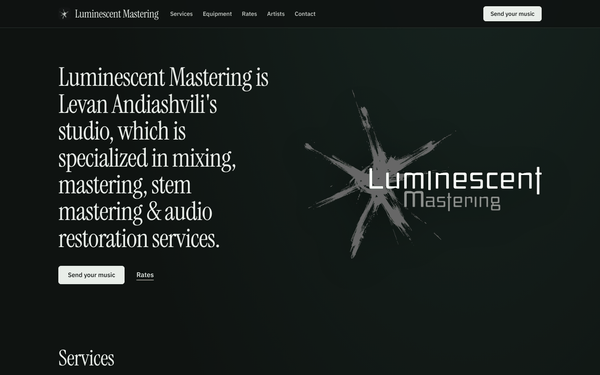
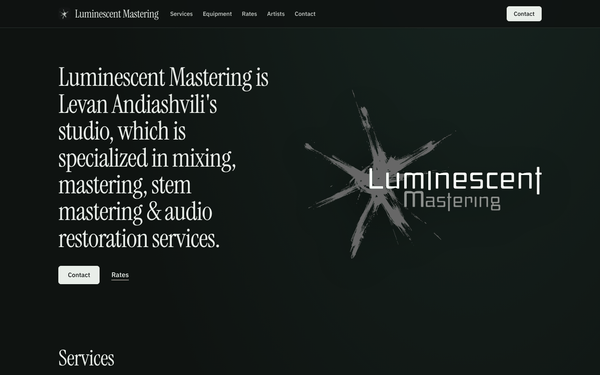
Top button: Contact instead of Send your music
The button at the top of both designs now reads Contact and jumps to
the Contact section. In the admin, the button's label and where it goes
(any section) can be changed, and Send your music can get its own knob
or menu link (empty by default). On phones the rack's knob row now fits
however many knobs there are.

Claude-Session: https://claude.ai/code/session_01J596TSWrTbDpVZM8kLWECq

Changed region(s): [[0.12, 0.704, 0.27, 0.7627], [0.78, 0.0, 0.9, 0.0587]]

diff --git a/src/admin.js b/src/admin.js
@@ -1,7 +1,7 @@
 // The admin panel at /admin: sign in, edit every text on the page, pick the design, go back to an earlier version.
 import crypto from 'node:crypto';
 import { html, raw, esc, send, redirect, readForm, clientIp, sameOrigin, SECURITY_HEADERS } from './http.js';
-import { load, save, normalize, history, restore, DESIGNS } from './content.js';
+import { load, save, normalize, history, restore, DESIGNS, SECTIONS } from './content.js';
 import {
   configured, checkPassword, makeSession, session, sessionCookie, csrfToken, csrfOk,
   tooManyAttempts, noteFailure, clearFailures,
@@ -133,8 +133,9 @@ ${flash.map((f) => html`<p class="flash ${f.kind || ''}" role="status">${f.text}
 <fieldset>
   <legend>Top of the page</legend>
   ${field('Intro', 'intro', c.intro, { rows: 3, hint: 'next to the logo; a blank line starts a new paragraph' })}
-  <div class="f-row">
-    ${field('Button', 'cta', c.cta, { hint: 'jumps to the Send your music section' })}
+  <div class="f-row f-row-3">
+    ${field('Button', 'cta', c.cta, { hint: 'the button at the top; leave empty to hide it' })}
+    <label class="f"><span>Button goes to</span><select name="ctaTarget">${Object.entries(SECTIONS).map(([k, label]) => html`<option value="${k}" ${c.ctaTarget === k ? raw('selected') : ''}>${label}</option>`)}</select></label>
     ${field('Site name', 'seo.title', c.seo.title, { hint: 'browser tab and Google' })}
   </div>
   ${field('Google description', 'seo.description', c.seo.description, { rows: 2, hint: 'the short text under the link in Google results' })}
@@ -178,7 +179,10 @@ ${flash.map((f) => html`<p class="flash ${f.kind || ''}" role="status">${f.text}
 
 <fieldset>
   <legend>Send your music</legend>
-  ${field('Heading', 'send.title', c.send.title)}
+  <div class="f-row">
+    ${field('Menu label', 'send.nav', c.send.nav, { hint: 'leave empty: no knob or link for this section' })}
+    ${field('Heading', 'send.title', c.send.title)}
+  </div>
   ${rows('send.blocks', withBlank(c.send.blocks, ['title', 'text']), (r, n) => html`
     ${field('Title', n('title'), r.title)}
     ${field('Text', n('text'), r.text, { rows: 5, hint: 'a blank line starts a new paragraph' })}`, 'Add a block')}
@@ -243,8 +247,8 @@ ${flash.map((f) => html`<p class="flash ${f.kind || ''}" role="status">${f.text}
 
 // ---- Form → content ----
 
-const ALLOWED = new RegExp('^(?:design|intro|cta|footer|seo\\.(?:title|description)'
-  + '|(?:services|equipment|rates|artists|contact)\\.nav|(?:services|equipment|rates|artists|send|contact)\\.title'
+const ALLOWED = new RegExp('^(?:design|intro|cta|ctaTarget|footer|seo\\.(?:title|description)'
+  + '|(?:services|equipment|rates|artists|send|contact)\\.nav|(?:services|equipment|rates|artists|send|contact)\\.title'
   + '|rates\\.terms|artists\\.(?:more|names)|send\\.(?:guideButton|guideText)|contact\\.(?:emailLabel|email|linksLabel)'
   + '|services\\.items\\.\\d{1,3}\\.(?:title|text)|equipment\\.rows\\.\\d{1,3}\\.(?:label|items)'
   + '|rates\\.rows\\.\\d{1,3}\\.(?:name|note|price|unit)|send\\.blocks\\.\\d{1,3}\\.(?:title|text)'

diff --git a/src/designs/clean.js b/src/designs/clean.js
@@ -2,7 +2,7 @@
 import fs from 'node:fs';
 import { html, raw, esc } from '../http.js';
 import { inline, paras, paragraphs, lines, shuffled } from '../text.js';
-import { asset, visible, nav, head, previewBar, artistsScript, PDF_PATH } from '../page.js';
+import { asset, visible, nav, cta, head, previewBar, artistsScript, PDF_PATH } from '../page.js';
 
 const CSS = fs.readFileSync(new URL('./clean.css', import.meta.url), 'utf8');
 
@@ -14,6 +14,7 @@ const fonts = (opts) => `@font-face { font-family: "Instrument Serif"; src: url(
 export function render(c, opts = {}) {
   const v = visible(c);
   const links = nav(c);
+  const button = cta(c);
   const intro = paragraphs(c.intro);
   return `<!DOCTYPE html>
 <html lang="en">
@@ -33,7 +34,7 @@ ${previewBar(opts)}
     ${links.length ? html`<nav class="main-nav" aria-label="Sections">
       ${links.map((l) => html`<a href="#${l.id}">${l.label}</a>`)}
     </nav>` : raw('<span style="flex:1"></span>')}
-    ${v.send && c.cta ? html`<a class="btn btn-small" href="#send">${c.cta}</a>` : ''}
+    ${button ? html`<a class="btn btn-small" href="${button.href}">${button.label}</a>` : ''}
   </div>
 </header>
 
@@ -43,8 +44,8 @@ ${previewBar(opts)}
       <div>
         ${intro.length ? html`<p class="display">${inline(intro[0])}</p>` : ''}
         ${intro.slice(1).map((p) => html`<p class="lede">${inline(p)}</p>`)}
-        ${(v.send && c.cta) || v.rates ? html`<div class="hero-actions">
-          ${v.send && c.cta ? html`<a class="btn" href="#send">${c.cta}</a>` : ''}
+        ${button || v.rates ? html`<div class="hero-actions">
+          ${button ? html`<a class="btn" href="${button.href}">${button.label}</a>` : ''}
           ${v.rates && c.rates.nav ? html`<a class="link" href="#rates">${c.rates.nav}</a>` : ''}
         </div>` : ''}
       </div>
@@ -99,7 +100,7 @@ ${raw(shuffled(c.artists.names).map((n) => html`      <li>${n}</li>`).join('\n')
 ${v.send ? html`  <section class="section" id="send" aria-labelledby="send-title">
     <div class="split">
       <div>
-        <h2 id="send-title">${c.send.title || c.cta}</h2>
+        <h2 id="send-title">${c.send.title || c.send.nav || 'Send your music'}</h2>
         ${c.send.guideButton ? html`<div class="guide">
           <a class="btn" href="${PDF_PATH}">${c.send.guideButton}</a>
           ${c.send.guideText ? html`<p>${inline(c.send.guideText)}</p>` : ''}

diff --git a/src/designs/rack.js b/src/designs/rack.js
@@ -2,13 +2,14 @@
 import fs from 'node:fs';
 import { html, raw, esc } from '../http.js';
 import { inline, paras, lines, shuffled } from '../text.js';
-import { asset, visible, nav, head, previewBar, artistsScript, PDF_PATH } from '../page.js';
+import { asset, visible, nav, cta, head, previewBar, artistsScript, PDF_PATH } from '../page.js';
 
 const CSS = fs.readFileSync(new URL('./rack.css', import.meta.url), 'utf8');
 
 export function render(c, opts = {}) {
   const v = visible(c);
   const knobs = nav(c);
+  const button = cta(c);
   return `<!DOCTYPE html>
 <html lang="en">
 <head>
@@ -31,14 +32,14 @@ ${previewBar(opts)}
         </div>` : ''}
       </div>
     </div>
-    ${knobs.length || (v.send && c.cta) ? html`<div class="unit-bottom">
+    ${knobs.length || button ? html`<div class="unit-bottom">
       ${knobs.length ? html`<nav aria-label="Sections">
         <ul class="knobs">
           ${knobs.map((k) => html`<li><a class="k" href="#${k.id}"><span class="dial"><span class="knob"></span></span>${k.label}</a></li>
           `)}
         </ul>
       </nav>` : raw('<span></span>')}
-      ${v.send && c.cta ? html`<a class="btn" href="#send"><span class="led" aria-hidden="true"></span>${c.cta}</a>` : ''}
+      ${button ? html`<a class="btn" href="${button.href}"><span class="led" aria-hidden="true"></span>${button.label}</a>` : ''}
     </div>` : ''}
   </section>
 </header>
@@ -86,7 +87,7 @@ ${raw(shuffled(c.artists.names).map((n) => html`        <li>${n}</li>`).join('\n
   </section>
 ` : ''}
 ${v.send ? html`  <section class="sec" id="send" aria-labelledby="send-title">
-    <div class="head"><h2 id="send-title">${c.send.title || c.cta}</h2></div>
+    <div class="head"><h2 id="send-title">${c.send.title || c.send.nav || 'Send your music'}</h2></div>
     ${c.send.blocks.length ? html`<div class="send">
       ${c.send.blocks.map((b, i) => html`<div class="module">
         ${b.title ? html`<h3>${b.title}</h3>` : ''}

diff --git a/public/admin.css b/public/admin.css
@@ -48,10 +48,10 @@ code { font: 12.5px ui-monospace, Menlo, monospace; background: rgba(0, 0, 0, .0
 .form legend { font: 400 26px/1 var(--serif); padding: 0 8px; margin-left: -8px; letter-spacing: -.01em; }
 .f { display: grid; gap: 5px; font-weight: 500; font-size: 13.5px; min-width: 0; }
 .f em { font-style: normal; font-weight: 400; color: var(--graphite); font-size: 12.5px; }
-.f input, .f textarea { font: 400 15px/1.45 var(--sans); padding: 8px 10px; border: 1px solid var(--rule); border-radius: 6px; background: #fff; color: var(--ink); width: 100%; }
+.f input, .f textarea, .f select { font: 400 15px/1.45 var(--sans); padding: 8px 10px; border: 1px solid var(--rule); border-radius: 6px; background: #fff; color: var(--ink); width: 100%; }
 .f textarea { resize: vertical; min-height: 44px; }
 .f textarea.mono { font: 13px/1.55 ui-monospace, Menlo, monospace; }
-.f input:focus, .f textarea:focus { outline: 2px solid color-mix(in srgb, var(--panel) 35%, transparent); border-color: var(--panel); }
+.f input:focus, .f textarea:focus, .f select:focus { outline: 2px solid color-mix(in srgb, var(--panel) 35%, transparent); border-color: var(--panel); }
 .f-row { display: grid; grid-template-columns: repeat(auto-fit, minmax(200px, 1fr)); gap: 14px; }
 .f-row-4 { grid-template-columns: 1.3fr 1.3fr .8fr 1fr; }
 @media (max-width: 720px) { .f-row-4 { grid-template-columns: 1fr 1fr; } }

diff --git a/src/content.js b/src/content.js
@@ -14,6 +14,16 @@ export const DESIGNS = {
   clean: 'Clean',
 };
 
+/** The page's sections, by their anchor on the page. */
+export const SECTIONS = {
+  services: 'Services',
+  equipment: 'Equipment',
+  rates: 'Rates',
+  clients: 'Artists',
+  send: 'Send your music',
+  contact: 'Contact',
+};
+
 export const DEFAULTS = JSON.parse(fs.readFileSync(path.join(ROOT, 'content', 'default.json'), 'utf8'));
 
 fs.mkdirSync(HISTORY, { recursive: true });
@@ -90,6 +100,7 @@ export function normalize(input = {}) {
     },
     intro: str(c.intro, 1500),
     cta: line(c.cta, 60),
+    ctaTarget: Object.hasOwn(SECTIONS, c.ctaTarget) ? c.ctaTarget : 'contact',
     services: {
       nav: line(sec('services').nav, 40),
       title: line(sec('services').title, 120),
@@ -115,6 +126,7 @@ export function normalize(input = {}) {
       names: names.slice(0, 3000),
     },
     send: {
+      nav: line(sec('send').nav, 40),
       title: line(sec('send').title, 120),
       blocks: list(sec('send').blocks, 16, (r) => ({ title: line(r?.title, 120), text: str(r?.text, 4000) })),
       guideButton: line(sec('send').guideButton, 60),

diff --git a/src/page.js b/src/page.js
@@ -27,8 +27,14 @@ export function nav(c) {
     ['equipment', c.equipment.nav],
     ['rates', c.rates.nav],
     ['clients', c.artists.nav],
+    ['send', c.send.nav],
     ['contact', c.contact.nav],
   ].filter(([id, label]) => v[id] && label).map(([id, label]) => ({ id, label }));
+}
+
+/** The button at the top: its label and where it goes, or null when that section isn't on the page. */
+export function cta(c) {
+  return c.cta && visible(c)[c.ctaTarget] ? { label: c.cta, href: `#${c.ctaTarget}` } : null;
 }
 
 export function head(c, opts, { themeColor }) {

diff --git a/src/designs/rack.css b/src/designs/rack.css
@@ -91,7 +91,7 @@ h1, h2, h3 { text-wrap: balance; margin: 0; }
 @media (max-width: 520px) {
   .unit { padding-left: 20px; padding-right: 20px; }
   .unit-bottom nav { width: 100%; }
-  .knobs { display: grid; grid-template-columns: repeat(5, minmax(0, 1fr)); gap: 0; }
+  .knobs { display: grid; grid-auto-flow: column; grid-auto-columns: minmax(0, 1fr); gap: 0; }
   .k { font-size: 8.5px; letter-spacing: 0.1em; }
   .dial { --d: 54px; --kn: 38px; }
 }
